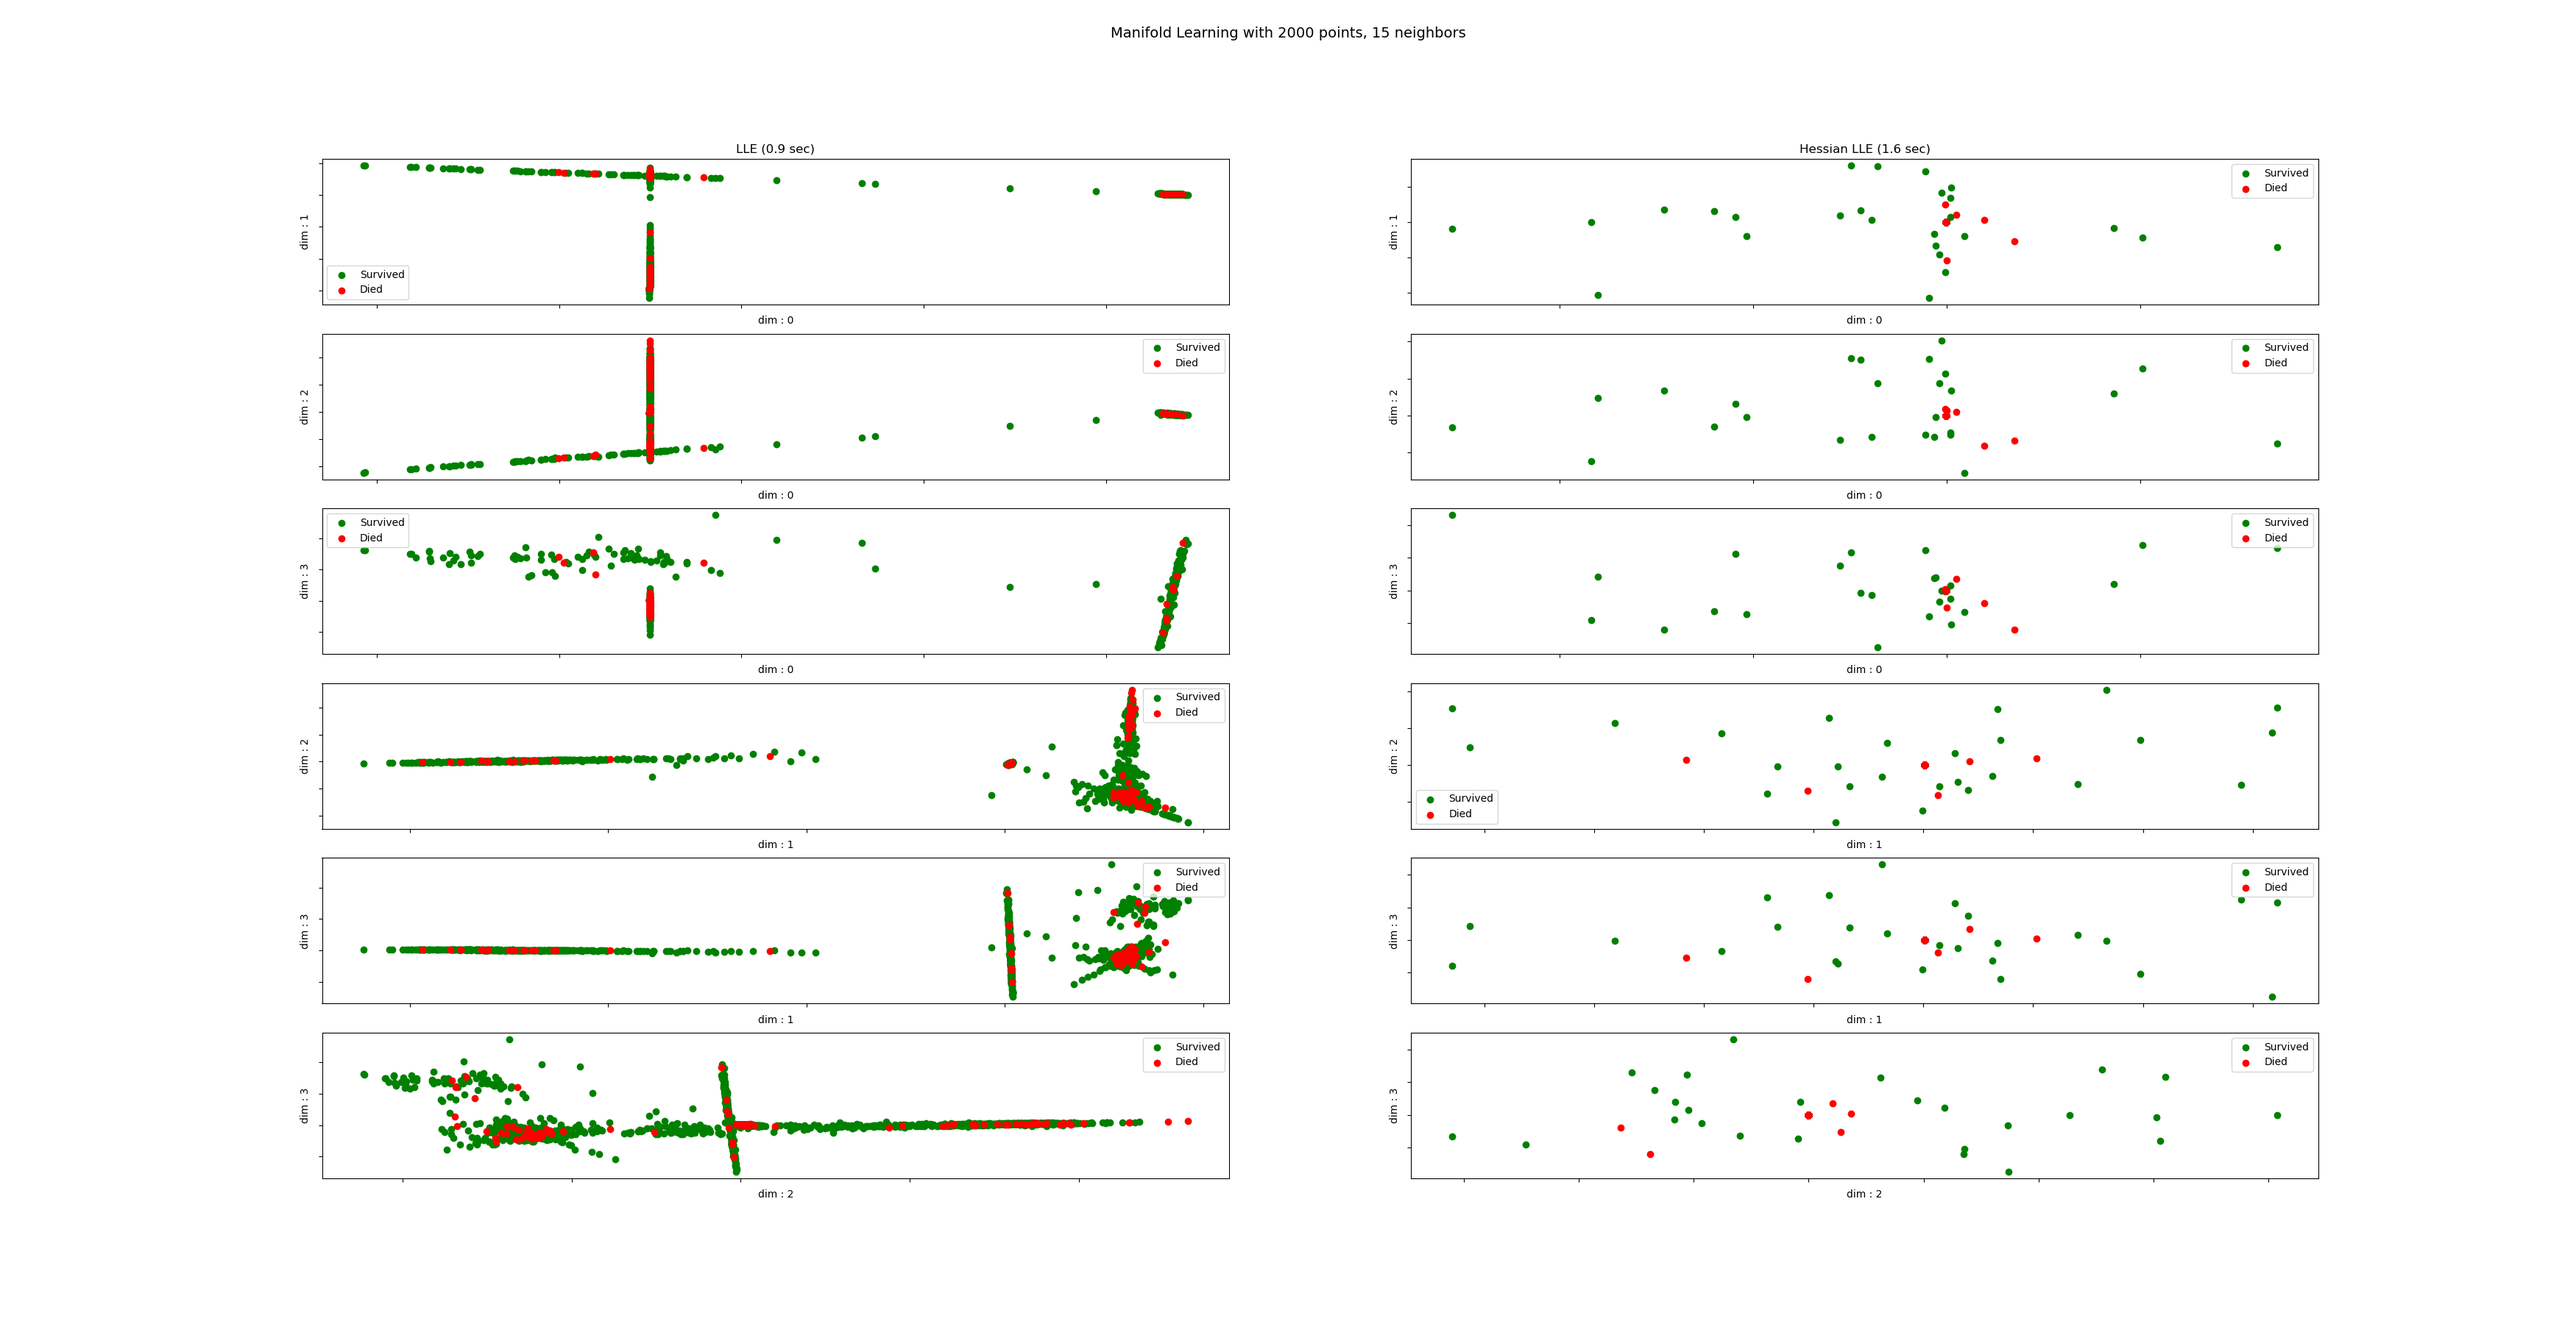
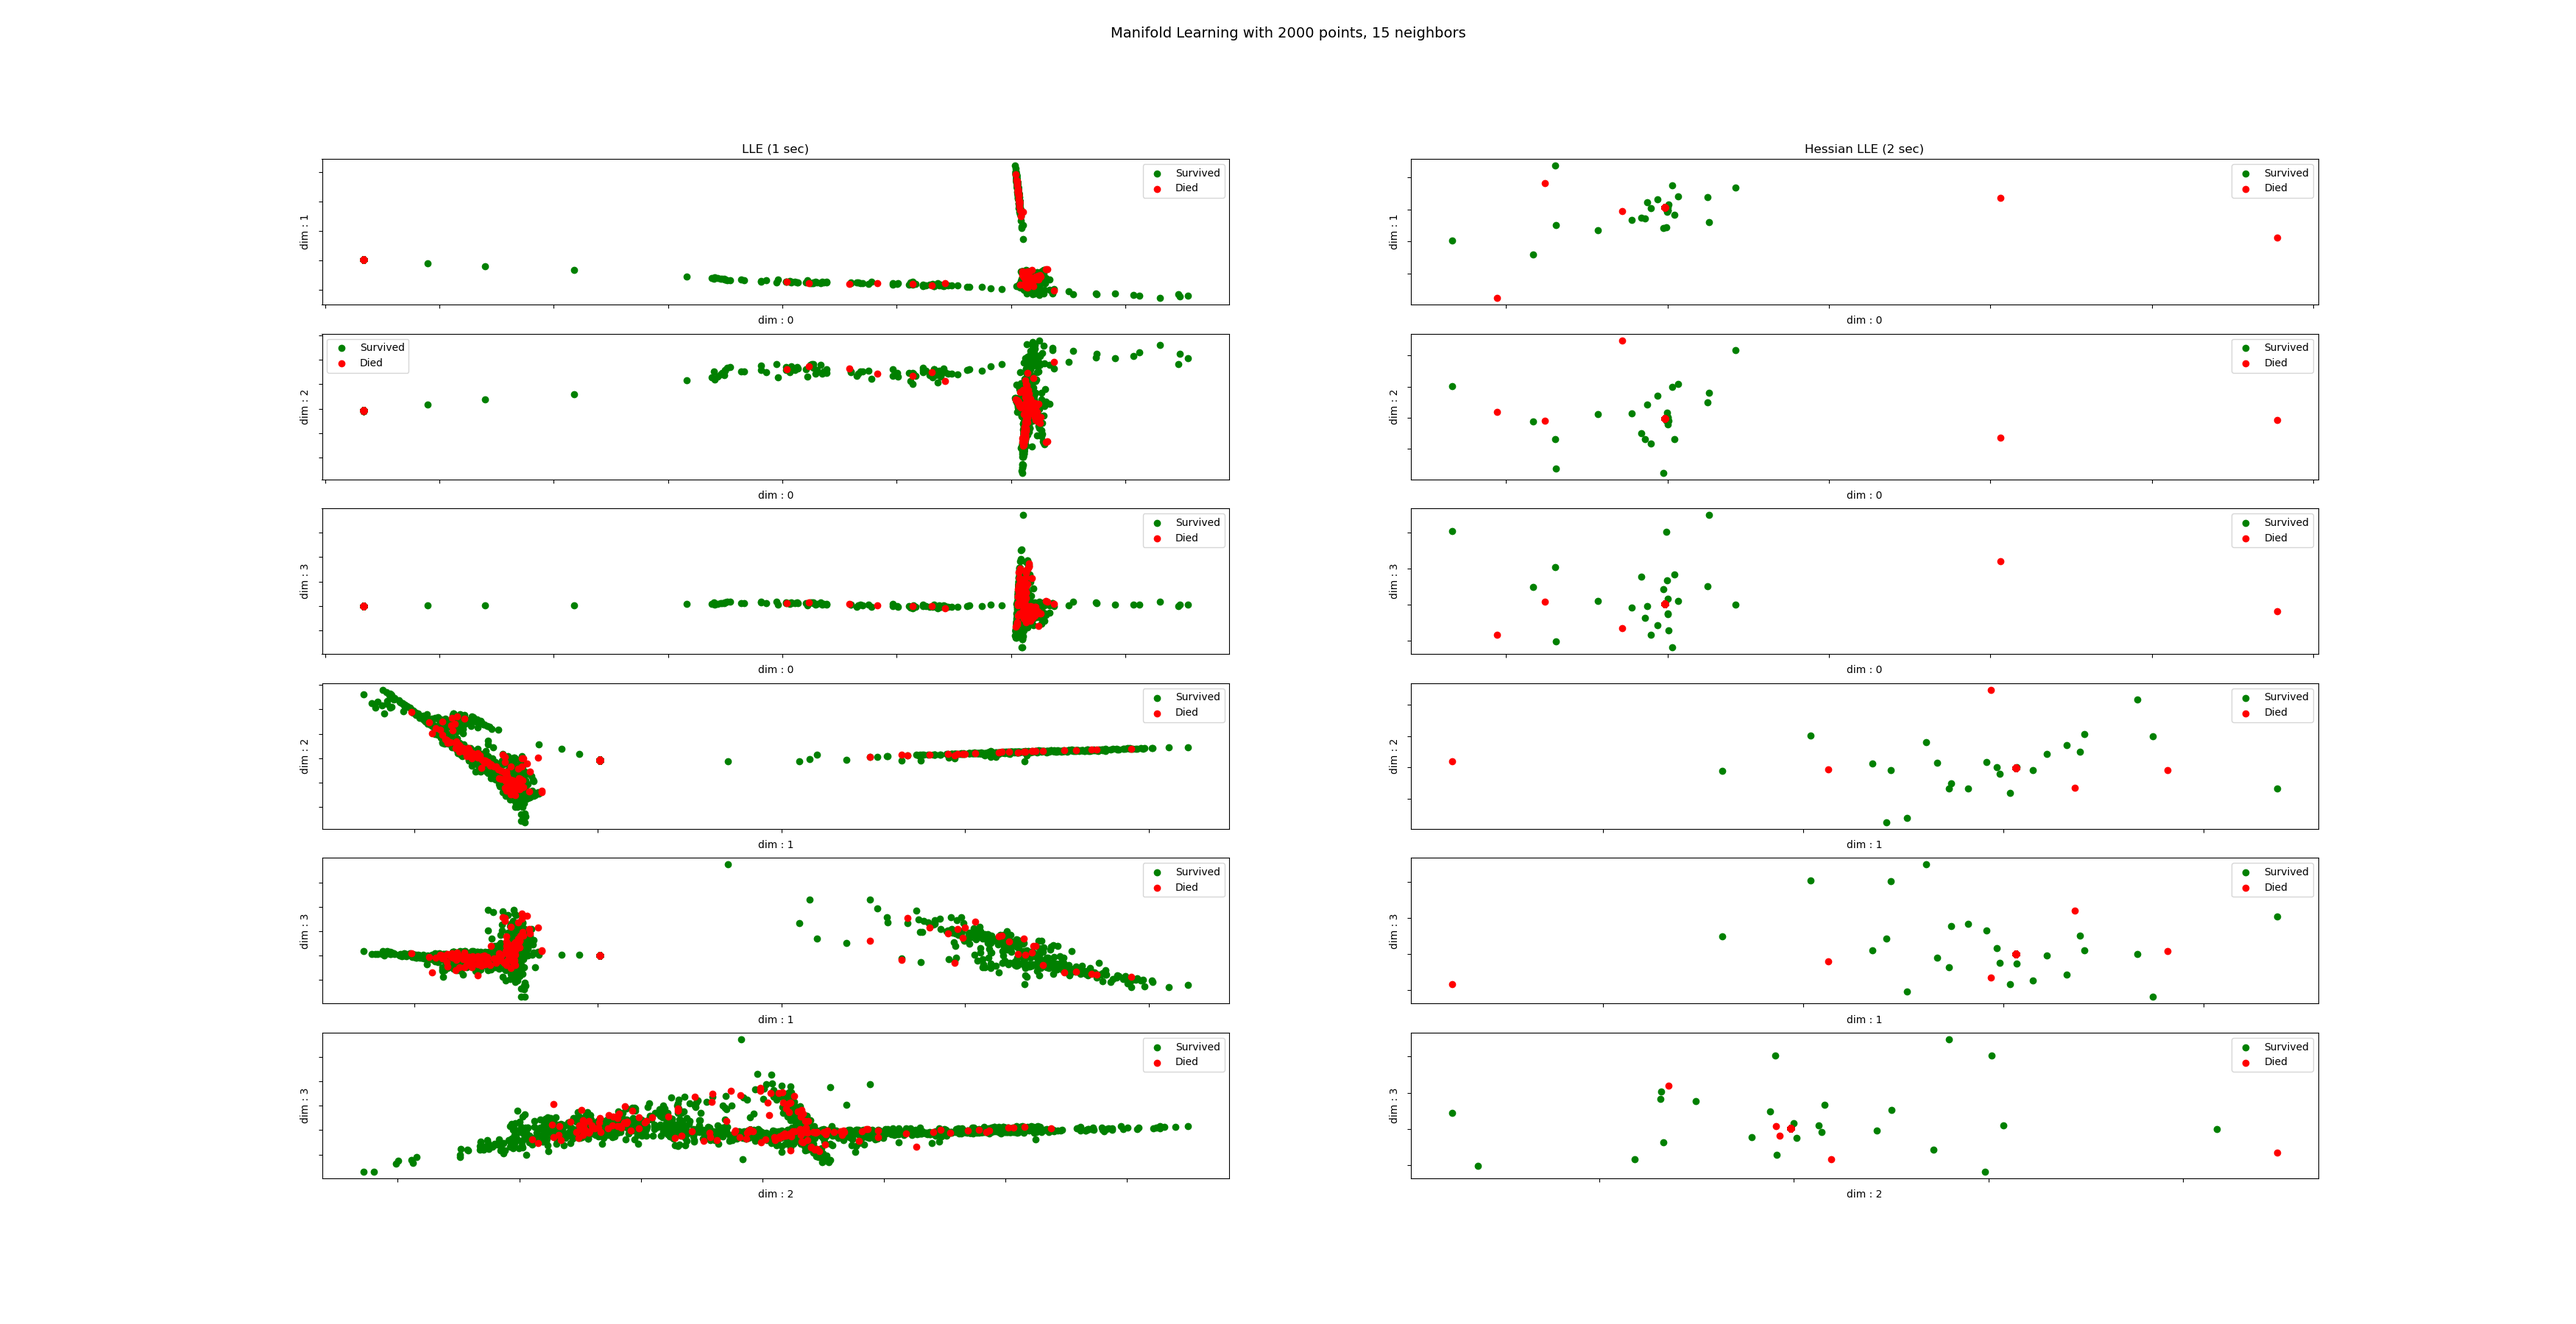
random sample ok

diff --git a/src/LLE_HLLE_real_dataset.py b/src/LLE_HLLE_real_dataset.py
@@ -44,11 +44,26 @@ print("No. of rows with missing values:", data.isnull().any(axis=1).sum())
 
 ################################### Reduction part ##################################
 
-nb_points = 2000
-X = data[:nb_points]
-Death = X["hospital_death"]
+n_points = 2000
 n_neighbors = 15
 n_components = 4
+
+total_death = data["hospital_death"]
+n_death = len(total_death[total_death == 1])
+n_survived = len(total_death) - n_death
+death_proportion = n_death / len(total_death)
+data_dead = data.loc[(data["hospital_death"] == 1)]
+data_survived = data.loc[(data["hospital_death"] == 0)]
+
+X = data_dead.sample(int(n_points * death_proportion))
+Y = data_survived.sample(n_points - int(n_points * death_proportion))
+sampled_data = pd.concat([X, Y])
+Death = sampled_data["hospital_death"]
+print(X.info(verbose=True, show_counts=True))
+print(Y.info(verbose=True, show_counts=True))
+print(sampled_data.info(verbose=True, show_counts=True))
+print(death_proportion)
+
 list_comb = list(range(n_components))
 list_comb = list(combinations(list_comb, 2))
 n_pairs = len(list_comb)
@@ -56,9 +71,8 @@ n_pairs = len(list_comb)
 # Create figure
 fig, axs = plt.subplots(n_pairs, 2, squeeze=False, figsize=(35, 18))
 fig.suptitle(
-    "Manifold Learning with %i points, %i neighbors" % (nb_points, n_neighbors), fontsize=14
+    "Manifold Learning with %i points, %i neighbors" % (n_points, n_neighbors), fontsize=14
 )
-# fig.tight_layout()
 
 # Set-up manifold methods
 LLE = partial(
@@ -75,7 +89,7 @@ methods["Hessian LLE"] = LLE(method="hessian")
 # Plot results
 for m, (label, method) in enumerate(methods.items()):
     t0 = time()
-    Y = method.fit_transform(X)
+    Y = method.fit_transform(sampled_data)
     t1 = time()
     print("%s: %.2g sec" % (label, t1 - t0))
     for (l, x) in enumerate(list_comb):
